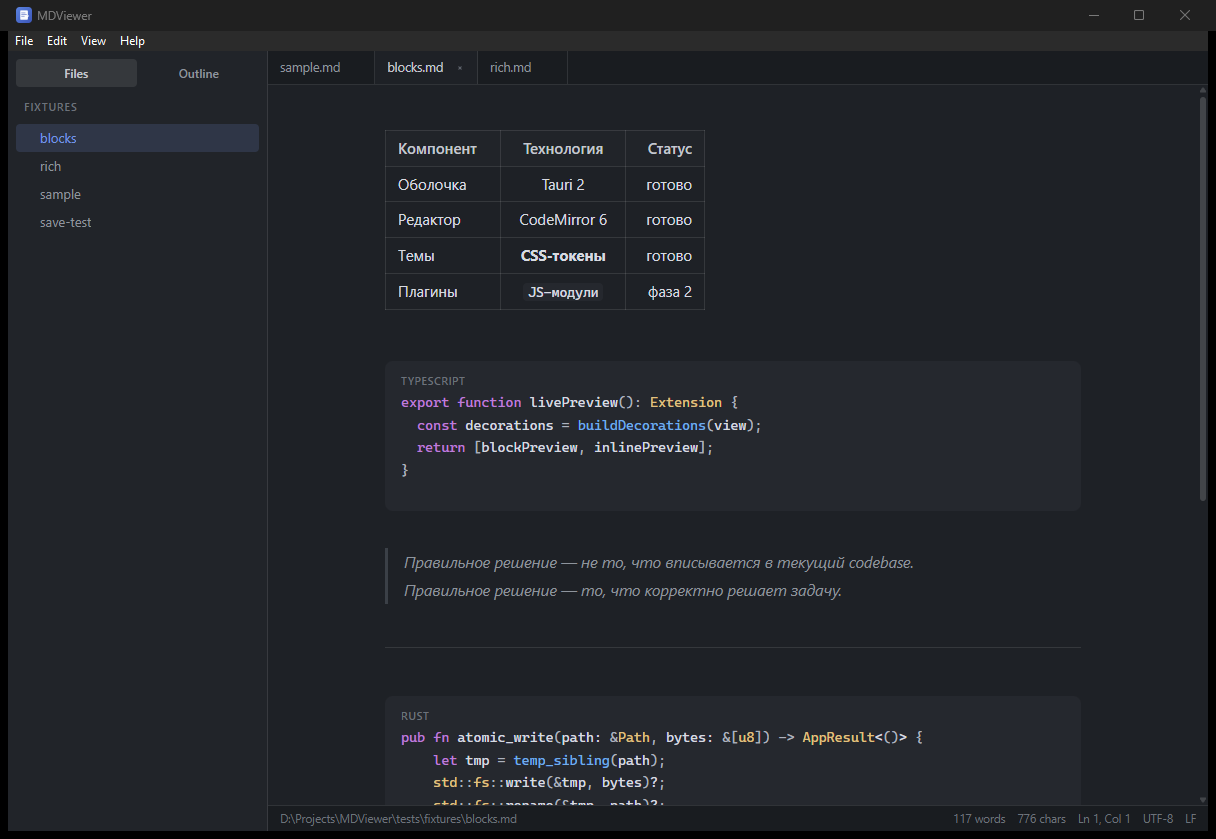
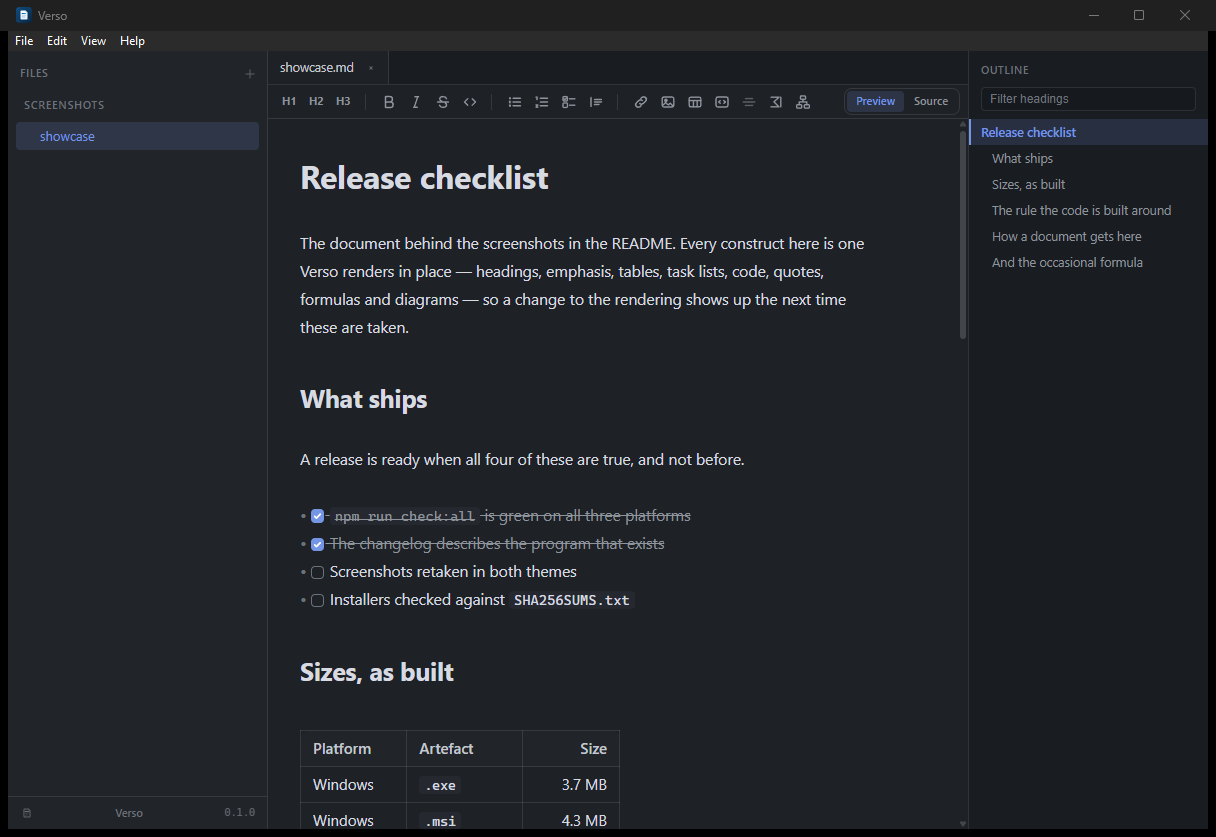
docs: English screenshots and a document to take them from
The README screenshots were in Russian; the interface they show is English and
Ukrainian now. They are taken from docs/screenshots/showcase.md, which exercises
every construct Verso renders, so a change to the rendering shows up the next
time they are retaken.

Claude-Session: https://claude.ai/code/session_01RpDVWtfBhPEHVTTxX7YrSX

diff --git a/docs/screenshots/showcase.md b/docs/screenshots/showcase.md
@@ -1,0 +1,70 @@
+# Release checklist
+
+The document behind the screenshots in the README. Every construct here is one
+Verso renders in place — headings, emphasis, tables, task lists, code, quotes,
+formulas and diagrams — so a change to the rendering shows up the next time
+these are taken.
+
+## What ships
+
+A release is ready when all four of these are true, and not before.
+
+- [x] `npm run check:all` is green on all three platforms
+- [x] The changelog describes the program that exists
+- [ ] Screenshots retaken in both themes
+- [ ] Installers checked against `SHA256SUMS.txt`
+
+## Sizes, as built
+
+| Platform | Artefact | Size |
+| :------- | :------- | ---: |
+| Windows  | `.exe`   | 3.7 MB |
+| Windows  | `.msi`   | 4.3 MB |
+| macOS    | `.dmg`   | 4.2 MB |
+| Linux    | `.deb`   | 4.5 MB |
+| Linux    | AppImage | 78.6 MB |
+
+The AppImage carries its own runtime, which is where the difference goes.
+
+> Everything else uses the webview the operating system already has. That is
+> the whole reason a Markdown viewer can be four megabytes instead of a
+> hundred and fifty.
+
+## The rule the code is built around
+
+The file's text *is* the document. Rendering is decoration drawn over it, so
+opening a file and saving it back produces identical bytes — the same encoding,
+the same line endings, down to a file that mixes `CRLF` and `LF`.
+
+```ts
+// The whole promise, as a test.
+const opened = decode(original);
+const written = encode(opened.content, opened.encoding, opened.lineEndings);
+expect(written).toEqual(original);
+```
+
+## How a document gets here
+
+```mermaid
+graph LR
+  A[Double-click a .md] --> B{Verso running?}
+  B -->|No| C[Start, associate, open]
+  B -->|Yes| D[Open a tab in the window]
+  C --> E[Render]
+  D --> E
+```
+
+## And the occasional formula
+
+Inline, in the middle of a sentence: the area of a circle is $S = \pi r^2$,
+and mass and energy are related by $E = mc^2$.
+
+Set on its own, the way a display formula should be:
+
+$$
+\int_{-\infty}^{\infty} e^{-x^2}\,dx = \sqrt{\pi}
+$$
+
+---
+
+*Written in Verso, rendered by Verso, exported by Verso.*

diff --git a/CHANGELOG.md b/CHANGELOG.md
@@ -59,7 +59,10 @@ in place, and never lose a byte.
 - Folder tree for the document's directory, showing only Markdown and
   sub-folders; refreshes when the folder changes on disk.
 - Outline panel that tracks the section you are reading.
-- Session restore for open tabs, caret positions and sidebar state.
+- Session restore for open tabs, caret positions, reading position and sidebar
+  state — a long document reopens where you stopped reading, not at line one.
+- Interface in English and Ukrainian, following the system language unless you
+  choose one in the settings.
 
 **Export**
 

diff --git a/README.md b/README.md
@@ -47,6 +47,8 @@ edit in place, and never damages your file.
 - **Opens what other editors will not.** UTF-8, UTF-16, and the eight-bit
   encodings everything written before UTF-8 is in: windows-1251, DOS 866,
   KOI8-R/U, ISO 8859-5, windows-1252 — saved back byte for byte.
+- **English and Ukrainian interface**, following the system language unless you
+  choose one.
 - **3.8 MB installer, ~40 MB of RAM.** Tauri 2 and the system webview, no
   bundled browser. (The Linux AppImage is the exception at ~79 MB — it carries
   its own runtime; the `.deb` and `.rpm` are 4.5 MB.)
